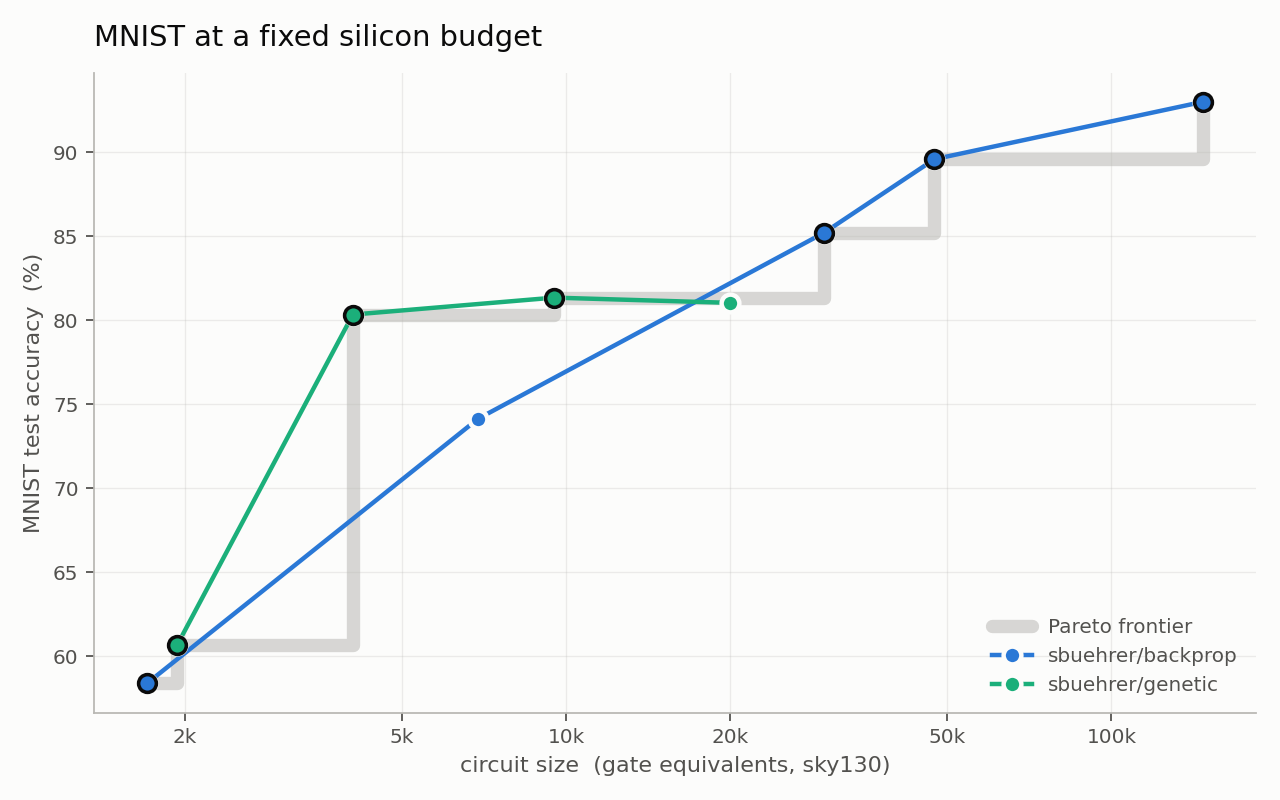
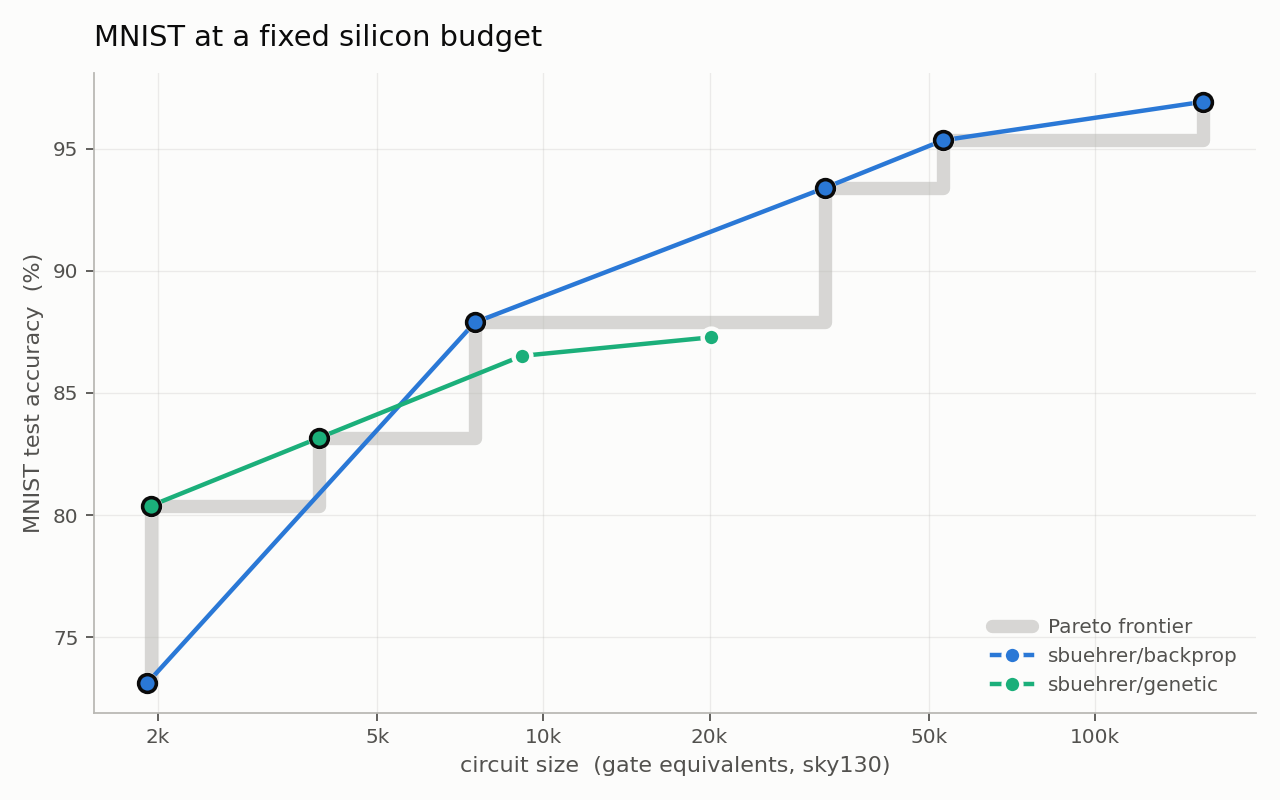
Update README and leaderboard with improved accuracy metrics and clarify genetic vs. backprop performance

diff --git a/README.md b/README.md
@@ -19,27 +19,34 @@ lets a LUT net, a quantized MLP and a boosted tree land on the same axis honestl
 
 ![Pareto curve](results/pareto.png)
 
-The two reference records already make the point. Below ~15k gate equivalents the **genetic**
-search owns the frontier — its NAND-only circuits map to cheaper cells, and learned wiring wastes
-fewer gates than backprop's frozen random wiring. Above it, **backprop** pulls away and keeps
-climbing to 93%, while the hill-climber flatlines at ~81% no matter how many gates you hand it.
+The two reference records already make the point, and they cross. Below a few thousand gate
+equivalents the **genetic** search owns the frontier — its NAND-only circuits map to cheaper
+cells, and at that size wiring is most of what matters, which is all it learns. Above ~7k GE
+**backprop** takes over and keeps climbing to **96.9%**, while the hill-climber tops out near 87%.
 Neither record could have shown that by reporting its own parameter count; it only appears once
 both are charged for the same silicon.
+
+Every point here is trained to convergence — each one early-stops when its own validation accuracy
+stops improving, not at a fixed budget. That is load-bearing: an earlier version of this benchmark
+capped the genetic search at 40k generations and concluded it "plateaus at 81%". It does not. Given
+room to converge (the `m` point needs ~800k generations, seven GPU-hours) it reaches 86.5%. A
+stopping rule chosen for convenience had been masquerading as a property of the algorithm — exactly
+the kind of error a shared, re-runnable cost axis is supposed to catch.
 
 ## Leaderboard
 
 <!-- LEADERBOARD -->
 | | record | point | gate equivalents | area (um^2) | depth | MNIST test acc |
 |---|---|---|---|---|---|---|
-| * | `sbuehrer/backprop` | xl | 147,291 | 552,870 | 280 | **93.02%** |
-| * | `sbuehrer/backprop` | l | 47,341 | 177,700 | 234 | **89.60%** |
-| * | `sbuehrer/backprop` | m | 29,737 | 111,622 | 235 | **85.23%** |
-| * | `sbuehrer/genetic` | m | 9,505 | 35,678 | 192 | **81.36%** |
-|  | `sbuehrer/genetic` | l | 19,952 | 74,891 | 207 | **81.05%** |
-| * | `sbuehrer/genetic` | s | 4,061 | 15,242 | 153 | **80.35%** |
-|  | `sbuehrer/backprop` | s | 6,893 | 25,875 | 186 | **74.15%** |
-| * | `sbuehrer/genetic` | xs | 1,935 | 7,262 | 128 | **60.69%** |
-| * | `sbuehrer/backprop` | xs | 1,702 | 6,387 | 134 | **58.39%** |
+| * | `sbuehrer/backprop` | xl | 156,861 | 588,792 | 285 | **96.93%** |
+| * | `sbuehrer/backprop` | l | 52,973 | 198,838 | 238 | **95.35%** |
+| * | `sbuehrer/backprop` | m | 32,425 | 121,712 | 237 | **93.41%** |
+| * | `sbuehrer/backprop` | s | 7,514 | 28,205 | 188 | **87.89%** |
+|  | `sbuehrer/genetic` | l | 20,114 | 75,501 | 206 | **87.28%** |
+|  | `sbuehrer/genetic` | m | 9,146 | 34,330 | 191 | **86.52%** |
+| * | `sbuehrer/genetic` | s | 3,920 | 14,715 | 156 | **83.16%** |
+| * | `sbuehrer/genetic` | xs | 1,945 | 7,301 | 129 | **80.38%** |
+| * | `sbuehrer/backprop` | xs | 1,913 | 7,179 | 130 | **73.10%** |
 
 `*` = on the Pareto frontier (nothing is both smaller and more accurate).
 <!-- /LEADERBOARD -->

diff --git a/results/leaderboard.md b/results/leaderboard.md
@@ -1,13 +1,13 @@
 | | record | point | gate equivalents | area (um^2) | depth | MNIST test acc |
 |---|---|---|---|---|---|---|
-| * | `sbuehrer/backprop` | xl | 147,291 | 552,870 | 280 | **93.02%** |
-| * | `sbuehrer/backprop` | l | 47,341 | 177,700 | 234 | **89.60%** |
-| * | `sbuehrer/backprop` | m | 29,737 | 111,622 | 235 | **85.23%** |
-| * | `sbuehrer/genetic` | m | 9,505 | 35,678 | 192 | **81.36%** |
-|  | `sbuehrer/genetic` | l | 19,952 | 74,891 | 207 | **81.05%** |
-| * | `sbuehrer/genetic` | s | 4,061 | 15,242 | 153 | **80.35%** |
-|  | `sbuehrer/backprop` | s | 6,893 | 25,875 | 186 | **74.15%** |
-| * | `sbuehrer/genetic` | xs | 1,935 | 7,262 | 128 | **60.69%** |
-| * | `sbuehrer/backprop` | xs | 1,702 | 6,387 | 134 | **58.39%** |
+| * | `sbuehrer/backprop` | xl | 156,861 | 588,792 | 285 | **96.93%** |
+| * | `sbuehrer/backprop` | l | 52,973 | 198,838 | 238 | **95.35%** |
+| * | `sbuehrer/backprop` | m | 32,425 | 121,712 | 237 | **93.41%** |
+| * | `sbuehrer/backprop` | s | 7,514 | 28,205 | 188 | **87.89%** |
+|  | `sbuehrer/genetic` | l | 20,114 | 75,501 | 206 | **87.28%** |
+|  | `sbuehrer/genetic` | m | 9,146 | 34,330 | 191 | **86.52%** |
+| * | `sbuehrer/genetic` | s | 3,920 | 14,715 | 156 | **83.16%** |
+| * | `sbuehrer/genetic` | xs | 1,945 | 7,301 | 129 | **80.38%** |
+| * | `sbuehrer/backprop` | xs | 1,913 | 7,179 | 130 | **73.10%** |
 
 `*` = on the Pareto frontier (nothing is both smaller and more accurate).